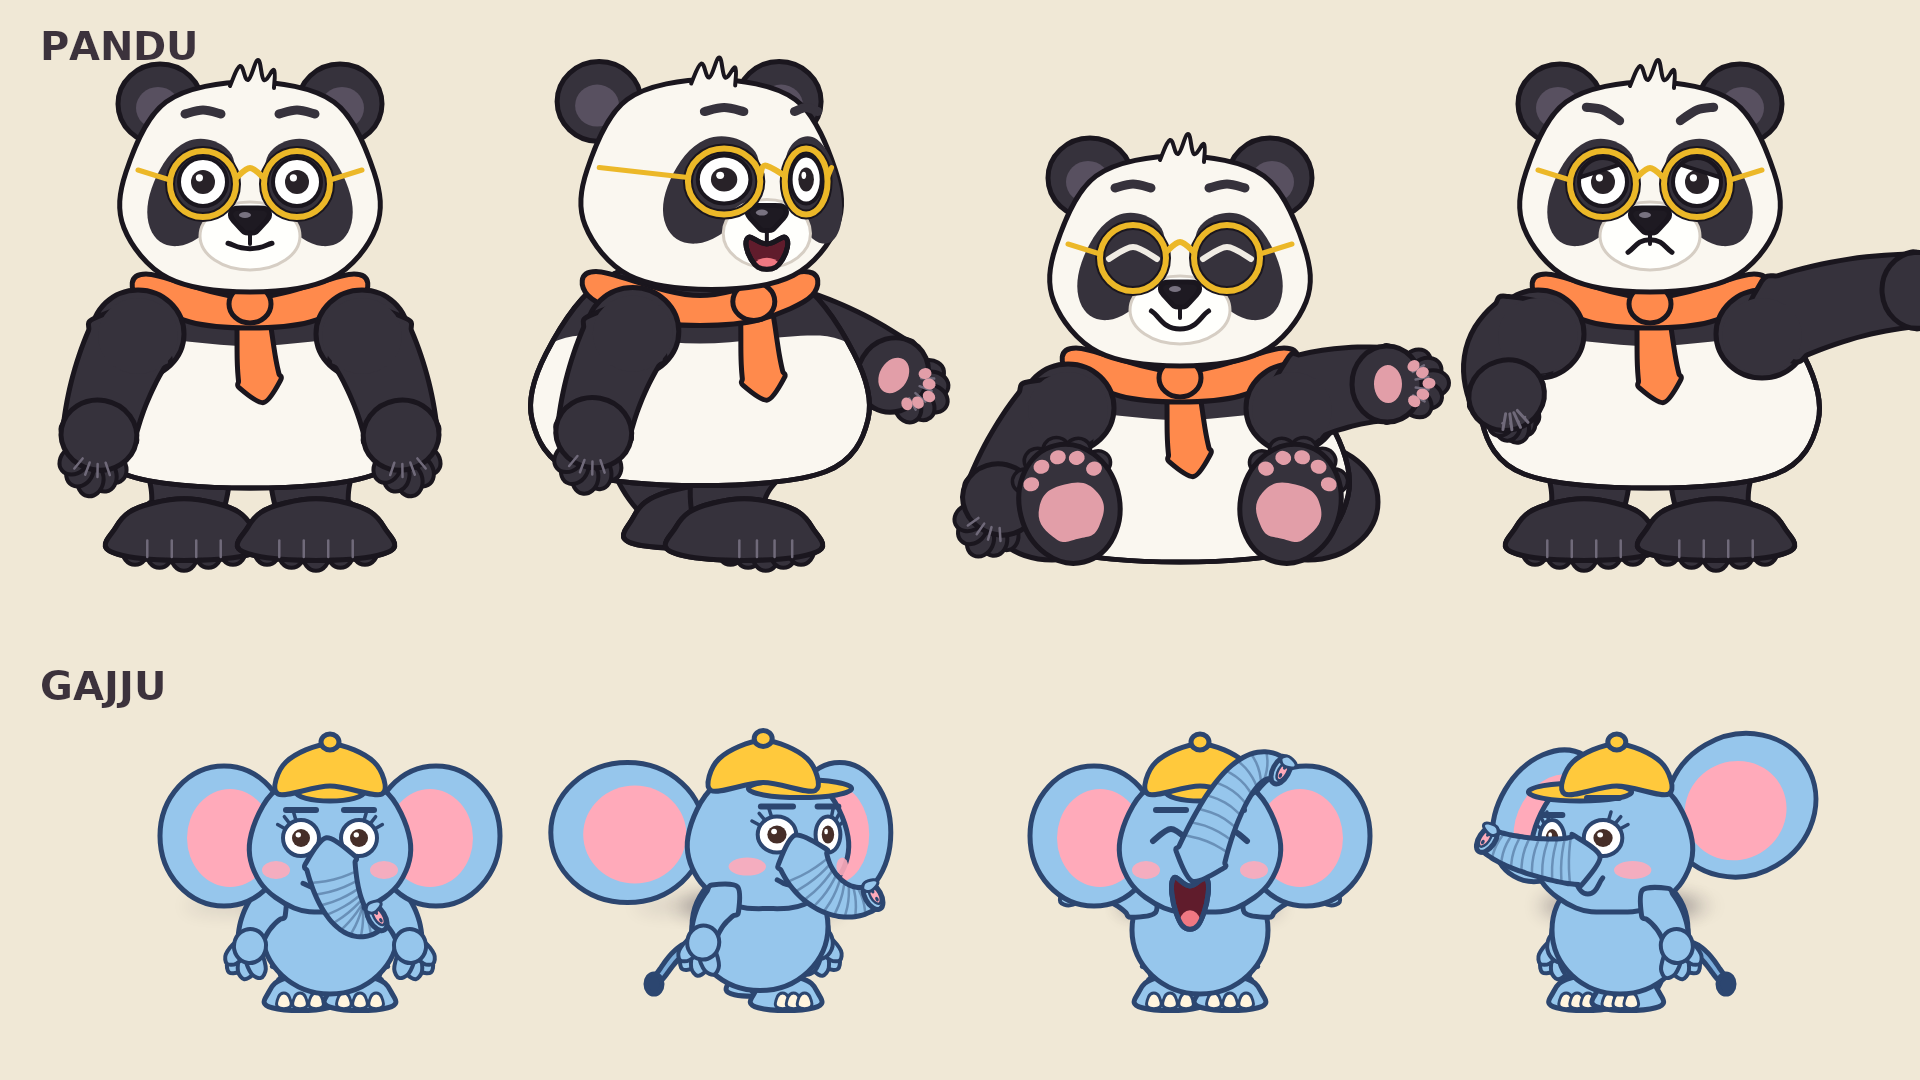
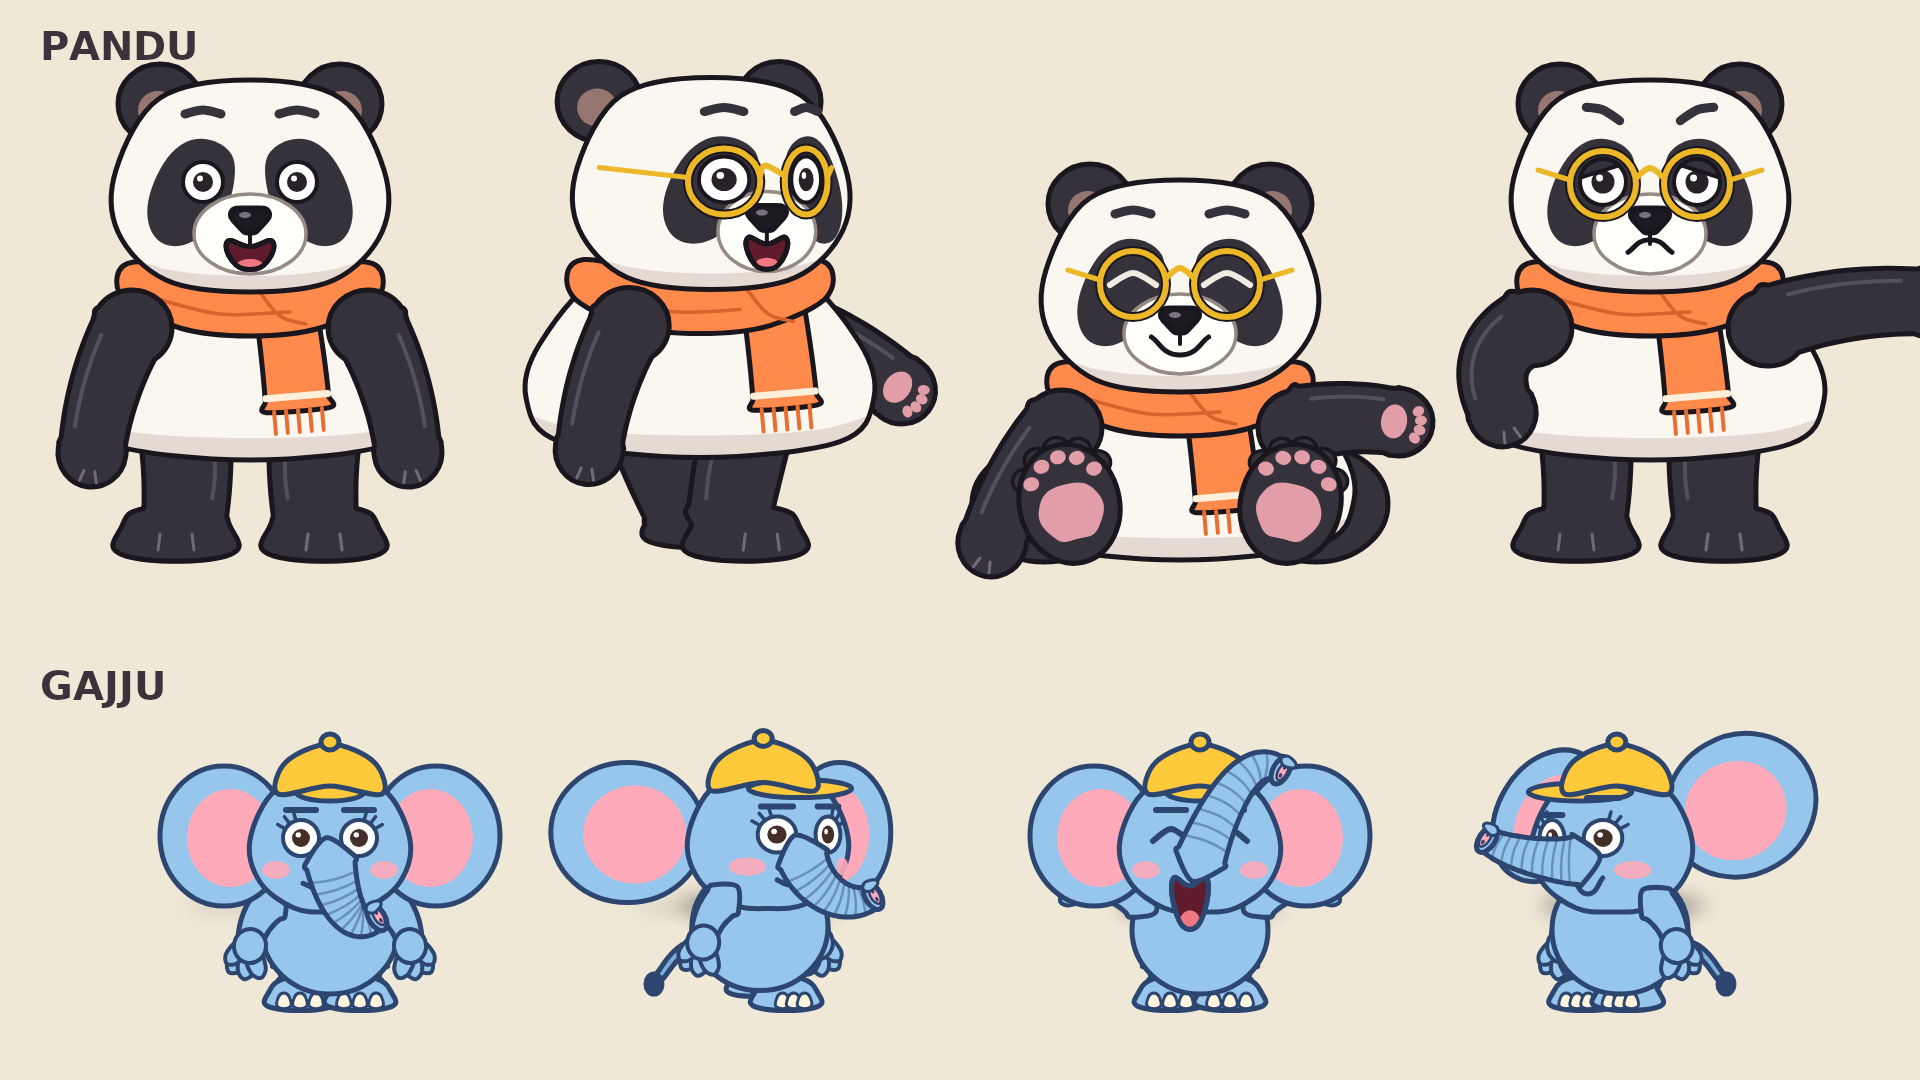
toon-slapstick: natural panda limbs for Pandu
Forelegs and hind legs are single smooth shapes that round off into the
paw, with a soft edge light and minimal toe marks. Wrapped scarf with a
fringed end, shaded body, optional glasses.

Claude-Session: https://claude.ai/code/session_018VuxnBXncPZTi5D3KQ9gYK

Changed region(s): [[0.0312, 0.0611, 1.0, 0.55], [0.8125, 0.0611, 0.9062, 0.0917], [0.8438, 0.1528, 0.875, 0.1833]]

diff --git a/toon-slapstick/engine/chars.py b/toon-slapstick/engine/chars.py
@@ -189,60 +189,75 @@ class Pandu(Character):
     CLAW = (250, 240, 214)
     GOLD = (236, 184, 40)
     SCARF = (255, 138, 76)
-    POSE = dict(Character.POSE, glasses_dy=0.0, glasses_rot=0.0, scarf_fly=0.0, sit=0.0, bendL=0.1, bendR=0.1)
-
-    def _hand(self, g, c, ang, kind, side=1):
-        """A real panda paw: broad and round, five short toes with small claws, pads underneath.
-        kind: mitt (back of the paw), open (palm and pads showing), fist / grip (toes curled), point."""
-        dx, dy = math.cos(ang), math.sin(ang)
-        nx, ny = -dy, dx
-        deg = math.degrees(ang)
-        curled = kind in ('fist', 'grip')
-        reach = 28 if curled else 41
-        for k in (-2, -1, 0, 1, 2):                       # toes fan round the far edge
-            a1 = ang + k * (0.34 if not curled else 0.3)
-            long = 1.0 - 0.12 * abs(k)
-            if kind == 'point' and k == 0:
-                tip = (c[0] + math.cos(a1) * 78, c[1] + math.sin(a1) * 78)
-                self._ink(g, tube([(c[0] + math.cos(a1) * 30, c[1] + math.sin(a1) * 30), tip], 13, 11), self.BLACK)
-                continue
-            if kind == 'point':
-                long *= 0.7
-            tx, ty = c[0] + math.cos(a1) * reach * long, c[1] + math.sin(a1) * reach * long
-            self._ink(g, oval(tx, ty, 16, 13, math.degrees(a1)), self.BLACK, 4)
-        paw = oval(c[0] - dx * 5, c[1] - dy * 5, 35, 38, deg)
-        self._ink(g, paw, self.BLACK)
-        for k in (-2, -1, 0, 1, 2):                       # toe partings, drawn light so they show on black
-            if kind == 'point' and k == 0:
-                continue
-            a1 = ang + (k + 0.5) * 0.34
-            if k < 2:
-                self._ink(g, poly([(c[0] + math.cos(a1) * 24, c[1] + math.sin(a1) * 24), (c[0] + math.cos(a1) * (reach - 4), c[1] + math.sin(a1) * (reach - 4))], False), None, 2.5, col=self.HL)
-        if kind == 'open':                                # palm side: one big pad and five toe pads
-            self._ink(g, oval(c[0] - dx * 4, c[1] - dy * 4, 14, 19, deg), self.PAD, 0, False)
-            for k in (-2, -1, 0, 1, 2):
-                a1 = ang + k * 0.34
-                rr = (reach - 4) * (1.0 - 0.12 * abs(k))
-                self._ink(g, oval(c[0] + math.cos(a1) * rr, c[1] + math.sin(a1) * rr, 6.5, 5.5, math.degrees(a1)), self.PAD, 0, False)
-        elif curled:
-            for k in (-1.5, -0.5, 0.5, 1.5):
-                a1 = ang + k * 0.3
-                self._ink(g, poly([(c[0] + math.cos(a1) * 14, c[1] + math.sin(a1) * 14), (c[0] + math.cos(a1) * 30, c[1] + math.sin(a1) * 30)], False), None, 3, col=self.HL)
+    POSE = dict(Character.POSE, glasses_dy=0.0, glasses_rot=0.0, scarf_fly=0.0, sit=0.0, glasses=1.0, bendL=0.1, bendR=0.1)
+    SHADE = (228, 218, 210)     # soft shadow tone on the white fur
 
     def _arm(self, g, p, side, key):
+        """Natural panda foreleg: one smooth thick shape that rounds off into the paw. No separate hand."""
         face = p['face']
-        sh = (side * 112 * (1 - 0.5 * abs(face)), -232)
-        rest = (side * 40, 112)
+        sh = (side * 118 * (1 - 0.5 * abs(face)), -236)
+        rest = (side * 40, 128)
         off = p[key]
         hand = (sh[0] + rest[0] + off[0], sh[1] + rest[1] + off[1])
         bend = -p['bendL' if side < 0 else 'bendR'] * side
-        c = limb(sh, hand, bend, 10)
-        self._ink(g, oval(sh[0], sh[1] + 6, 46, 44), self.BLACK)
-        self._ink(g, tube(c[1:], 43, 36, True), self.BLACK)      # thick, stocky foreleg
-        self._ink(g, oval(sh[0], sh[1] + 8, 40, 38), self.BLACK, 0, False)
+        c = limb(sh, hand, bend, 12)
         ang = math.atan2(c[-1][1] - c[-3][1], c[-1][0] - c[-3][0])
-        self._hand(g, hand, ang, p['handL' if side < 0 else 'handR'], side)
-        self.anchors['handL' if side < 0 else 'handR'] = g.pt(hand[0] + math.cos(ang) * 30, hand[1] + math.sin(ang) * 30)
+        dx, dy = math.cos(ang), math.sin(ang)
+        deg = math.degrees(ang)
+        kind = p['handL' if side < 0 else 'handR']
+        shape = tube(c, 37, 32, True)
+        for extra in (oval(sh[0], sh[1] + 4, 40, 38), oval(hand[0], hand[1], 35, 34, deg)):
+            u = skia.Op(shape, extra, skia.kUnion_PathOp)
+            shape = u if u is not None else shape
+        if kind == 'point':
+            tip = (hand[0] + dx * 74, hand[1] + dy * 74)
+            u = skia.Op(shape, tube([hand, tip], 14, 11), skia.kUnion_PathOp)
+            shape = u if u is not None else shape
+        self._ink(g, shape, self.BLACK)
+        # soft light along the outer edge gives the limb some roundness
+        nx, ny = -dy, dx
+        rim = []
+        for i in range(2, 11):
+            a0, a1 = c[i - 1], c[i + 1]
+            d = math.hypot(a1[0] - a0[0], a1[1] - a0[1]) or 1
+            n = (-(a1[1] - a0[1]) / d, (a1[0] - a0[0]) / d)
+            r = 37 + (32 - 37) * i / 12
+            rim.append((c[i][0] - n[0] * r * 0.62 * side, c[i][1] - n[1] * r * 0.62 * side))
+        self._ink(g, smooth(rim, False, 0.6), None, 4, col=self.HL, a=0.55)
+        if kind == 'open':                                # palm side: one big pad and toe pads
+            self._ink(g, oval(hand[0] - dx * 4, hand[1] - dy * 4, 13, 17, deg), self.PAD, 0, False)
+            for k in (-1.5, -0.5, 0.5, 1.5):
+                a1 = ang + k * 0.42
+                self._ink(g, oval(hand[0] + math.cos(a1) * 23, hand[1] + math.sin(a1) * 23, 6, 5, math.degrees(a1)), self.PAD, 0, False)
+        elif kind != 'point':                             # back of the paw: just two short toe marks
+            for k in (-0.5, 0.5):
+                a1 = ang + k * 0.55
+                self._ink(g, poly([(hand[0] + math.cos(a1) * 20, hand[1] + math.sin(a1) * 20), (hand[0] + math.cos(a1) * 31, hand[1] + math.sin(a1) * 31)], False), None, 3, col=self.HL)
+        self.anchors['handL' if side < 0 else 'handR'] = g.pt(hand[0] + dx * 30, hand[1] + dy * 30)
+
+    def _hindlegs(self, g, p):
+        """Thick straight hind legs with rounded feet, drawn as one shape each."""
+        st, amp, face = p['step'], p['stride'], p['face']
+        for i, hx0 in enumerate((-66, 66)):
+            ph = 2 * math.pi * (st + i * 0.5)
+            key = 'footL' if i == 0 else 'footR'
+            dx = amp * math.cos(ph) + p[key][0]
+            lift = max(0.0, math.sin(ph)) * amp * 0.5 - p[key][1]
+            hx = hx0 * (1 - 0.35 * abs(face))
+            fx, fy = hx + dx + face * 8, -30 - lift
+            side = -1 if i == 0 else 1
+            c = limb((hx, -138), (fx, fy - 6), 0.06 * side * (1 - abs(face)) + lift * 0.004 * (face or side), 8)
+            fo = face * 22 + (0 if abs(face) > 0.2 else side * 8)
+            shape = tube(c, 46, 41, True)
+            u = skia.Op(shape, smooth([(fx - 50 + fo, fy + 26), (fx - 54 + fo, fy - 4), (fx - 30 + fo, fy - 22), (fx + 30 + fo, fy - 22), (fx + 54 + fo, fy - 4), (fx + 50 + fo, fy + 26)], True, 0.7), skia.kUnion_PathOp)
+            shape = u if u is not None else shape
+            if lift:
+                m = skia.Matrix(); m.setRotate(-lift * 0.12 * (face or side), hx, -138); q = skia.Path(); shape.transform(m, q); shape = q
+            self._ink(g, shape, self.BLACK)
+            for k in (-0.4, 0.4):
+                tx = fx + fo + face * 20 + k * 40
+                self._ink(g, poly([(tx, fy + 4 - lift * 0.1), (tx + k * 5, fy + 20 - lift * 0.1)], False), None, 3, col=self.HL)
+            self._ink(g, smooth([(c[1][0] - side * 28, c[1][1]), (c[4][0] - side * 28, c[4][1]), (c[6][0] - side * 26, c[6][1])], False), None, 4, col=self.HL, a=0.5)
 
     def _sole(self, g, cx, cy, s):
         """Hind paw seen from underneath (sitting pose)."""
@@ -264,33 +279,44 @@ class Pandu(Character):
         sit = p['sit'] > 0.5
         if sit:      # sitting like a real panda: haunches on the floor, hind paws out in front
             for s in (-1, 1):
-                self._ink(g, oval(s * 128, -58, 70, 58), self.BLACK)
+                self._ink(g, oval(s * 136, -56, 72, 58), self.BLACK)
         else:
-            self._legs(g, p, [(-66, -112), (66, -112)], -27, 68, 30, 40, self.BLACK)
-        g.push(0, bob + (74 if sit else 0))
+            if p['wheel'] > 0.5:
+                self._legs(g, p, [(-66, -138), (66, -138)], -30, 60, 28, 40, self.BLACK)
+            else:
+                self._hindlegs(g, p)
+        g.push(0, bob + (100 if sit else 0))
         far, near = ('armR', 'armL') if face > 0.35 else ('armL', 'armR') if face < -0.35 else (None, None)
         if far:
             self._arm(g, p, 1 if far == 'armR' else -1, far)
         # tail nub when turned
         if abs(face) > 0.35:
-            self._ink(g, oval(-face * 156, -112, 26, 24), self.WHITE)
+            self._ink(g, oval(-face * 162, -140, 26, 24), self.WHITE)
         # body
-        body = smooth([(0, -302), (96, -278), (154, -204), (168, -138), (126, -86), (0, -72),
-                       (-126, -86), (-168, -138), (-154, -204), (-96, -278)], True, 0.5)
-        self._ink(g, body, self.WHITE)
-        # the black band a real panda has across the shoulders and chest, joining the forelegs
-        band = smooth([(-200, -340), (200, -340), (200, -206), (120, -222), (0, -214), (-120, -222), (-200, -206)], True, 0.5)
-        yoke = skia.Op(body, band, skia.kIntersect_PathOp)
-        if yoke is not None:
-            self._ink(g, yoke, self.BLACK, 0, False)
-            self._ink(g, body, None)
-        # scarf
-        kx = face * 46 + p['yaw'] * 20
+        body = smooth([(0, -304), (98, -282), (160, -214), (174, -160), (140, -116), (0, -100),
+                       (-140, -116), (-174, -160), (-160, -214), (-98, -282)], True, 0.5)
+        self._ink(g, body, self.WHITE, 0, False)
+        low = skia.Op(body, smooth([(-220, -150), (-120, -128), (0, -122), (120, -128), (220, -150), (220, -60), (-220, -60)], True, 0.5), skia.kIntersect_PathOp)
+        if low is not None:
+            self._ink(g, low, self.SHADE, 0, False)
+        self._ink(g, body, None)
+        # scarf: a soft wrap with one end hanging down, fringed
+        kx = 34 + face * 30 + p['yaw'] * 16
         fly = p['scarf_fly'] - p['_vx'] * 0.035
-        tail = bez((kx, -262), (kx + 6 - fly * 40, -230), (kx + 4 - fly * 95, -205 - abs(fly) * 30), (kx + 10 - fly * 130, -176 - abs(fly) * 62))
-        self._ink(g, tube(tail, 15, 21, True), self.SCARF)
-        self._ink(g, smooth([(-104, -286), (0, -262), (104, -286), (112, -262), (60, -238), (0, -232), (-60, -238), (-112, -262)], True, 0.5), self.SCARF)
-        self._ink(g, oval(kx, -256, 21, 19), self.SCARF)
+        end = (kx + 14 - fly * 120, -150 - abs(fly) * 70)
+        tl = bez((kx, -266), (kx + 4 - fly * 30, -236), (kx + 10 - fly * 80, -200 - abs(fly) * 30), end)
+        self._ink(g, tube(tl, 30, 32, False), self.SCARF)
+        d0, d1 = tl[-2], tl[-1]
+        dd = math.hypot(d1[0] - d0[0], d1[1] - d0[1]) or 1
+        ux, uy = (d1[0] - d0[0]) / dd, (d1[1] - d0[1]) / dd
+        for k in (-24, -12, 0, 12, 24):                   # fringe
+            bx, by = end[0] - uy * k, end[1] + ux * k
+            self._ink(g, poly([(bx, by), (bx + ux * 22, by + uy * 22)], False), None, 4, col=(232, 110, 50))
+        self._ink(g, poly([(end[0] - uy * 31 - ux * 14, end[1] + ux * 31 - uy * 14), (end[0] + uy * 31 - ux * 14, end[1] - ux * 31 - uy * 14)], False), None, 7, col=(255, 240, 220))
+        wrap = smooth([(-116, -298), (0, -276), (116, -298), (128, -262), (70, -232), (0, -224), (-70, -232), (-128, -262)], True, 0.5)
+        self._ink(g, wrap, self.SCARF)
+        self._ink(g, smooth([(-96, -262), (-30, -246), (40, -248)], False), None, 3.5, col=(214, 98, 44))
+        self._ink(g, smooth([(kx - 26, -270), (kx - 4, -244), (kx + 22, -236)], False), None, 3.5, col=(214, 98, 44))
         if not far:
             self._arm(g, p, -1, 'armL'); self._arm(g, p, 1, 'armR')
         # ---- head
@@ -300,9 +326,13 @@ class Pandu(Character):
         for s in (-1, 1):
             ex, ey = s * 90 - p['yaw'] * 26, -84 + p['pitch'] * 8
             self._ink(g, oval(ex, ey, 42, 40), self.BLACK)
-            self._ink(g, oval(ex + s * 2, ey + 4, 22, 21), (88, 80, 96), 0, False)
-        self._ink(g, smooth([(0, -106), (84, -86), (124, -16), (126, 40), (82, 90), (0, 104), (-82, 90), (-126, 40), (-124, -16), (-84, -86)], True, 0.5), self.WHITE)
-        self._ink(g, smooth([(-20, -102), (-10, -122), (-2, -108), (8, -128), (14, -108), (24, -118), (24, -100)], False, 0.6), self.WHITE, 4)
+            self._ink(g, oval(ex + s * 2, ey + 6, 20, 19), (150, 118, 112), 0, False)
+        head = smooth([(0, -108), (90, -90), (134, -18), (132, 44), (84, 92), (0, 104), (-84, 92), (-132, 44), (-134, -18), (-90, -90)], True, 0.5)
+        self._ink(g, head, self.WHITE, 0, False)
+        chin = skia.Op(head, smooth([(-170, 60), (-80, 82), (0, 88), (80, 82), (170, 60), (170, 140), (-170, 140)], True, 0.5), skia.kIntersect_PathOp)
+        if chin is not None:
+            self._ink(g, chin, self.SHADE, 0, False)
+        self._ink(g, head, None)
         py = p['pitch'] * 16
         eyes = []
         for s in (-1, 1):
@@ -311,14 +341,14 @@ class Pandu(Character):
             eyes.append((x - s * 3 * ws, -6 + py, ws, s))
         # muzzle, nose, mouth
         mx, mw = self._yaw(0, R * 0.95, a)
-        self._ink(g, oval(mx, 48 + py, 50 * max(mw, 0.7), 34), (255, 255, 252), 3, True, (214, 206, 196))
+        self._ink(g, oval(mx, 46 + py, 56 * max(mw, 0.7), 40), (255, 255, 252), 3.5, True, (150, 138, 132))
         self._ink(g, smooth([(mx - 19, 24 + py), (mx, 20 + py), (mx + 19, 24 + py), (mx + 10, 40 + py), (mx, 45 + py), (mx - 10, 40 + py)], True, 0.8), (30, 26, 34))
         self._ink(g, oval(mx - 5, 27 + py, 6, 3), (120, 114, 128), 0, False)
         self._ink(g, poly([(mx, 45 + py), (mx, 56 + py)], False), None, 4)
         self._mouth(g, mx, 58 + py, max(mw, 0.7), p)
         self.anchors['mouth'] = g.pt(mx, 66 + py)
         for x, y, ws, s in eyes:
-            self._eye(g, x, y, 24, ws, p, self.BLACK, side=s, closed_col=(240, 236, 228))
+            self._eye(g, x, y, 20 if p['glasses'] < 0.5 else 23, ws, p, self.BLACK, side=s, closed_col=(240, 236, 228))
         # brows
         for x, y, ws, s in eyes:
             lift = p['brow'] + (p['brow_asym'] * 14 if s > 0 else -p['brow_asym'] * 6)
@@ -330,6 +360,7 @@ class Pandu(Character):
         gy = p['glasses_dy']
         g.push(0, gy, p['glasses_rot'])
         rims = []
+        g.alpha, _al = (g.alpha if p['glasses'] > 0.5 else 0.0), g.alpha
         for x, y, ws, s in eyes:
             rims.append((x, y + 2, 33 * ws))
             self._ink(g, oval(x, y + 2, 33 * ws, 33), None, 10, col=self.INK)
@@ -338,6 +369,7 @@ class Pandu(Character):
         self._ink(g, smooth([(x0 + r0, y0 - 6), ((x0 + x1) / 2, y0 - 16), (x1 - r1, y1 - 6)], False), None, 6, col=self.GOLD)
         self._ink(g, poly([(x0 - r0, y0 - 4), (min(x0 - r0 - 4, -112), y0 - 14)], False), None, 5, col=self.GOLD)
         self._ink(g, poly([(x1 + r1, y1 - 4), (max(x1 + r1 + 4, 112), y1 - 14)], False), None, 5, col=self.GOLD)
+        g.alpha = _al
         g.pop()
         if p['sweat'] > 0.3:
             for i in range(3):
